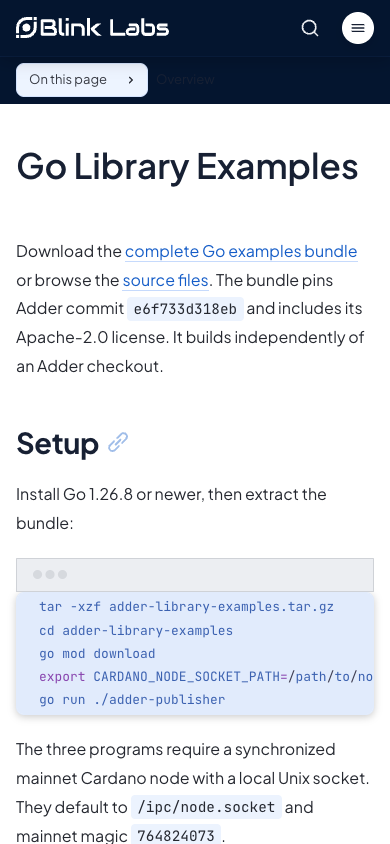
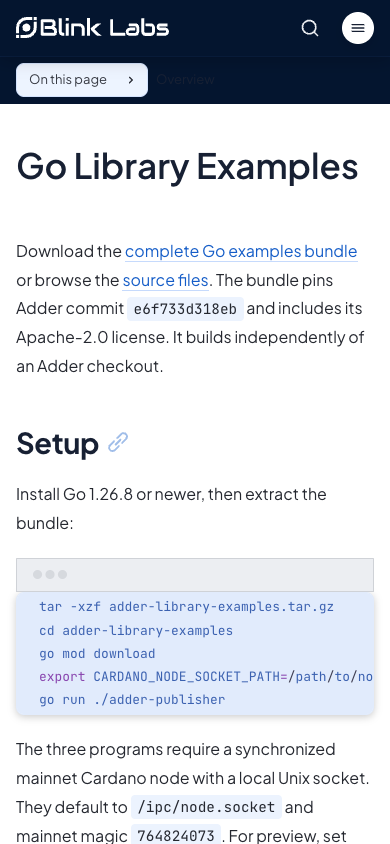
docs(adder): clarify example network and shutdown setup

Changed region(s): [[0.5846, 0.9858, 0.8923, 1.0], [0.2154, 0.9858, 0.2462, 1.0], [0.0615, 0.9858, 0.0923, 1.0]]

diff --git a/src/content/docs/guides/adder/library-examples/overview.md b/src/content/docs/guides/adder/library-examples/overview.md
@@ -24,9 +24,17 @@ go run ./adder-publisher
 
 The three programs require a synchronized mainnet Cardano node with a local
 Unix socket. They default to `/ipc/node.socket` and mainnet magic `764824073`.
-`CARDANO_NODE_MAGIC` overrides the magic; changing it alone does not replace
-global genesis values. Configure both when adapting the programs to another
-network. For TCP access, replace `WithSocketPath` with `WithAddress` in source.
+For preview, set `CARDANO_NODE_MAGIC=2` and point `CARDANO_NODE_SOCKET_PATH` at
+a preview node. For preprod, use magic `1` and a preprod node. ChainSync infers
+its status epoch history from these known magic values.
+
+For a custom network, add `input_chainsync.WithEraHistory` to `inputOpts` in
+`main.go`. Supply an `input_chainsync.EraHistory` whose `ByronEpochLength`,
+`ShelleyStartSlot`, `ShelleyStartEpoch`, and `ShelleyEpochLength` match that
+network's genesis and era boundaries. The programs parse only the two
+`CARDANO_NODE_*` variables; configure custom era history in source.
+
+For TCP access, replace `WithSocketPath` with `WithAddress` in source.
 Node-to-Node ChainSync uses bulk synchronization; connect only to nodes you control.
 
 ## Examples
@@ -38,7 +46,9 @@ Node-to-Node ChainSync uses bulk synchronization; connect only to nodes you cont
 
 All three programs start at the current tip and enable automatic reconnection.
 They handle SIGINT/SIGTERM, observe terminal `Failed()` separately from
-recoverable `ErrorChan()` diagnostics, and call `Stop()` before returning.
+recoverable `ErrorChan()` diagnostics, and call `Stop()` before returning after
+a successful start. Startup errors return without a `Stop()` call because
+`StartContext` cleans up a failed start.
 The callback logs `received event` with an event type, and status changes log
 `chainsync status update`.
 

diff --git a/public/downloads/adder/library-examples/source/README.md b/public/downloads/adder/library-examples/source/README.md
@@ -16,10 +16,17 @@ go run ./adder-publisher
 ```
 
 Run `go run ./poolid-filter` or `go run ./event-address-filter` for the filter
-programs. All three default to mainnet magic 764824073. Changing
-`CARDANO_NODE_MAGIC` alone does not replace the global genesis values; configure
-both for another network. TCP access can use `WithAddress` instead of
-`WithSocketPath`; Node-to-Node ChainSync uses bulk synchronization and should
+programs. All three default to mainnet magic 764824073. For preview, set
+`CARDANO_NODE_MAGIC=2` and point `CARDANO_NODE_SOCKET_PATH` at a preview node;
+for preprod, use magic `1` and a preprod node. ChainSync infers the status epoch
+history from these known network magic values.
+
+For a custom network, add `input_chainsync.WithEraHistory` to `inputOpts` in
+`main.go`. Pass an `input_chainsync.EraHistory` with `ByronEpochLength`,
+`ShelleyStartSlot`, `ShelleyStartEpoch`, and `ShelleyEpochLength` derived from
+that network's genesis and era boundaries. These programs parse only the two
+`CARDANO_NODE_*` environment variables, so set custom era history in source.
+TCP access can use `WithAddress` instead of `WithSocketPath`; Node-to-Node ChainSync uses bulk synchronization and should
 connect only to nodes you control.
 
 The callback logs `received event`, and the status callback logs
